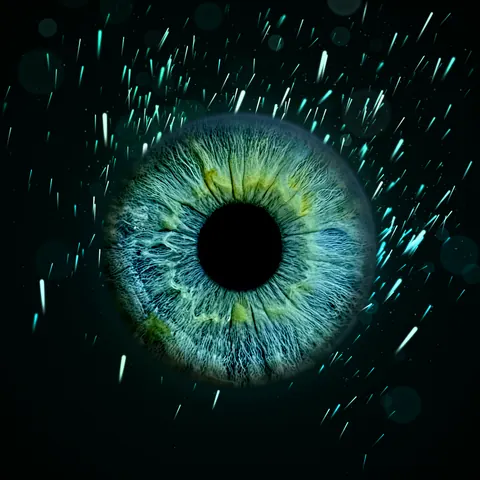
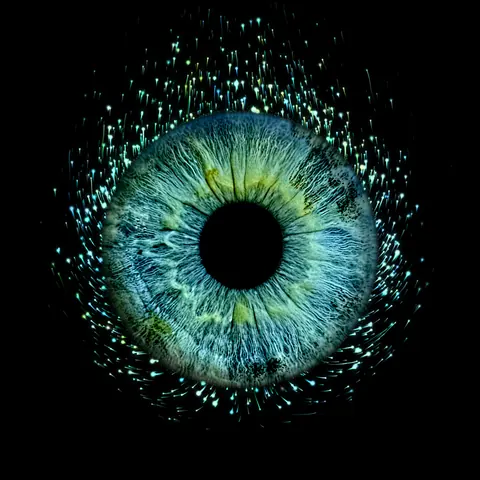
assets: Halo, Sparks and Aurora tiles, gallery art and globe in their ENGINE_V 13 looks
- /try style pictures: public/assets/atelier/style-{halo,sparks,aurora}-{480,800}.webp
  drawn again with scripts/make_style_tiles.py (the owner's own eye, own215120).
- Landing gallery art: art/{halo,sparks,aurora}_{own,yg,gr,br}_{480,900} drawn
  with make_style_tiles.make_one (the 1024 px preview, no watermark), copied by
  scripts/build_landing_assets.py. WebP quality 42 / 50 (was 70 / 72): the new
  looks are richer in fine detail, and at 70 / 72 the folder came to 10.83 MB,
  over the 10.5 MB budget of check_landing_assets.mjs; now 10.41 MB, visually
  the same at page size.
- Eyes: the calibration restorations of the earlier tiles are no longer on
  this machine. own = the private fixture restoration of own215120, yg = a
  restoration of drv_w04, gr = the 4K restoration of drv_d01 (the same photos
  as before). br: no restoration of drv_w06 is left, so its art is drawn from
  the Clean Iris tile of w06 (art/clean_br_900) cropped to its iris. Written
  in scripts/landing_assets_provenance.json.
- Hero globe: the halo_own, sparks_own and aurora_own discs cut again from the
  new style pictures (scripts/make_globe_assets.py; the other 29 discs come out
  byte for byte the same) and the poster captured again
  (scripts/make_globe_poster.mjs; its 1442 px capture cut by one transparent row
  at the top and the bottom to 1440 px, as for Powder Burst).

Verified on this tree: build, tsc -b, run_ts_tests 1032, every check:* green
[…]

diff --git a/src/landing/assets.ts b/src/landing/assets.ts
@@ -16,14 +16,14 @@ export const ASSET_BASE = '/assets/landing/';
 
 /** name (folder and file name without the extension) -> [content hash, width, height, bytes] */
 const FILES = {
-  'art/aurora_br_480': ['024882d2bb', 480, 480, 14798],
-  'art/aurora_br_900': ['875119e6ab', 900, 900, 42996],
-  'art/aurora_gr_480': ['3f2ac4ce36', 480, 480, 14086],
-  'art/aurora_gr_900': ['0a3b5a5c5a', 900, 900, 35268],
-  'art/aurora_own_480': ['803f4b4a0b', 480, 480, 14400],
-  'art/aurora_own_900': ['ede2959961', 900, 900, 37052],
-  'art/aurora_yg_480': ['174087201a', 480, 480, 15214],
-  'art/aurora_yg_900': ['ce8f97e5a7', 900, 900, 38676],
+  'art/aurora_br_480': ['88b303a8c9', 480, 480, 20970],
+  'art/aurora_br_900': ['8c63bb1585', 900, 900, 56910],
+  'art/aurora_gr_480': ['272c9acf88', 480, 480, 16706],
+  'art/aurora_gr_900': ['ad03f85a78', 900, 900, 45094],
+  'art/aurora_own_480': ['b412177b18', 480, 480, 17098],
+  'art/aurora_own_900': ['06e0d44033', 900, 900, 40016],
+  'art/aurora_yg_480': ['bf3a7bbe5e', 480, 480, 16008],
+  'art/aurora_yg_900': ['c7fe43db2e', 900, 900, 36898],
   'art/clean_br_480': ['54a1718607', 480, 480, 19758],
   'art/clean_br_900': ['4368c17ec4', 900, 900, 56176],
   'art/clean_gr_480': ['a0b773e912', 480, 480, 17590],
@@ -76,14 +76,14 @@ const FILES = {
   'art/fam_trio_900': ['c51300034b', 900, 900, 89386],
   'art/fibre_crop_1200': ['43b3f724ac', 1200, 1200, 55698],
   'art/fibre_full_480': ['97cd852736', 480, 480, 19024],
-  'art/halo_br_480': ['4050db2848', 480, 480, 19280],
-  'art/halo_br_900': ['1b3143c5ce', 900, 900, 53842],
-  'art/halo_gr_480': ['ed5cc27e17', 480, 480, 17230],
-  'art/halo_gr_900': ['02f104817a', 900, 900, 41130],
-  'art/halo_own_480': ['5588d71f4f', 480, 480, 17854],
-  'art/halo_own_900': ['c70c2f07a2', 900, 900, 44366],
-  'art/halo_yg_480': ['574c286fa3', 480, 480, 18854],
-  'art/halo_yg_900': ['4ab0b66173', 900, 900, 46290],
+  'art/halo_br_480': ['4628c67ef1', 480, 480, 19378],
+  'art/halo_br_900': ['3e79b68a75', 900, 900, 52768],
+  'art/halo_gr_480': ['692162293d', 480, 480, 16648],
+  'art/halo_gr_900': ['5aa23827d6', 900, 900, 44922],
+  'art/halo_own_480': ['72d46d502f', 480, 480, 16106],
+  'art/halo_own_900': ['8adc7b948a', 900, 900, 37706],
+  'art/halo_yg_480': ['6948231969', 480, 480, 15858],
+  'art/halo_yg_900': ['b8530a96c2', 900, 900, 37084],
   'art/nebula_br_480': ['ca6f9a6434', 480, 480, 16262],
   'art/nebula_br_900': ['8ea369663d', 900, 900, 45636],
   'art/nebula_gr_480': ['e12126e8c3', 480, 480, 16178],
@@ -108,14 +108,14 @@ const FILES = {
   'art/radiance_own_900': ['afb4288f74', 900, 900, 51012],
   'art/radiance_yg_480': ['6e92f7d95a', 480, 480, 22652],
   'art/radiance_yg_900': ['f888e33b6e', 900, 900, 54964],
-  'art/sparks_br_480': ['c3afd07bfb', 480, 480, 26386],
-  'art/sparks_br_900': ['d646e0d1be', 900, 900, 67996],
-  'art/sparks_gr_480': ['caed11562b', 480, 480, 25114],
-  'art/sparks_gr_900': ['c2729e2d24', 900, 900, 56864],
-  'art/sparks_own_480': ['807170bcaa', 480, 480, 25720],
-  'art/sparks_own_900': ['267ffcae8d', 900, 900, 59574],
-  'art/sparks_yg_480': ['a257d406d9', 480, 480, 26526],
-  'art/sparks_yg_900': ['3902536c11', 900, 900, 61540],
+  'art/sparks_br_480': ['f2b9fe56dc', 480, 480, 26162],
+  'art/sparks_br_900': ['9630aa24a8', 900, 900, 65734],
+  'art/sparks_gr_480': ['0a2bcb4b51', 480, 480, 24466],
+  'art/sparks_gr_900': ['fb3975898c', 900, 900, 60100],
+  'art/sparks_own_480': ['859d314ab8', 480, 480, 23872],
+  'art/sparks_own_900': ['5c677e12e3', 900, 900, 52506],
+  'art/sparks_yg_480': ['855d5c1761', 480, 480, 24226],
+  'art/sparks_yg_900': ['04d613882d', 900, 900, 52668],
   'art/splash_br_480': ['77c47d83c0', 480, 480, 24884],
   'art/splash_br_900': ['b036f8a9f6', 900, 900, 69982],
   'art/splash_gr_480': ['ae704210a6', 480, 480, 21486],
@@ -144,9 +144,9 @@ const FILES = {
   'art/wallthumb_family4_96': ['65aa0dee2d', 96, 96, 1160],
   'art/wallthumb_radiance_96': ['2f397a5cf7', 96, 96, 1638],
   'art/wallthumb_universe_96': ['cc82f33ca2', 96, 96, 2744],
-  'globe/poster_1200': ['44c06f7b7a', 1200, 1271, 30944],
-  'globe/poster_600': ['a11f6fbda0', 600, 635, 14078],
-  'globe/poster_900': ['4a9ee89441', 900, 953, 21750],
+  'globe/poster_1200': ['b6200dd533', 1200, 1271, 32340],
+  'globe/poster_600': ['8a8605542a', 600, 635, 14674],
+  'globe/poster_900': ['7e99f340c6', 900, 953, 22648],
   'm/cafe_acrylic_3x2__collision__tight_1200': ['75569e42ad', 1200, 800, 75932],
   'm/cafe_acrylic_3x2__collision__tight_600': ['6134659e89', 600, 400, 23636],
   'm/desk_block__family4__tight_1200': ['e2bc1454e2', 1200, 1499, 74876],

diff --git a/src/landing/globe/assets.globe.ts b/src/landing/globe/assets.globe.ts
@@ -5,9 +5,9 @@
 
 /** <id>_<width> -> [content hash, bytes] */
 const GLOBE_FILES: Readonly<Record<string, readonly [string, number]>> = {
-  'aurora_own_160': ['c12e92f1f3', 2188],
-  'aurora_own_240': ['75f9b86968', 4412],
-  'aurora_own_480': ['8d65870d7a', 17556],
+  'aurora_own_160': ['6c959abff9', 2946],
+  'aurora_own_240': ['214f202683', 6262],
+  'aurora_own_480': ['3c22d37dc5', 26740],
   'clean_own_160': ['4cb011ade4', 2250],
   'clean_own_240': ['7550b1324c', 4948],
   'clean_own_480': ['88ab48d346', 21646],
@@ -44,9 +44,9 @@ const GLOBE_FILES: Readonly<Record<string, readonly [string, number]>> = {
   'fam_trio_160': ['d98adc9c74', 3026],
   'fam_trio_240': ['9ab4f5088a', 7336],
   'fam_trio_480': ['0d5e705fa1', 35404],
-  'halo_own_160': ['2bc15323b3', 2732],
-  'halo_own_240': ['f4a7d300ec', 5536],
-  'halo_own_480': ['905f4a22a6', 22460],
+  'halo_own_160': ['3e2b193343', 2508],
+  'halo_own_240': ['1a537292b1', 5536],
+  'halo_own_480': ['b762fb6fca', 24840],
   'nebula_duo_160': ['565a8caad5', 2520],
   'nebula_duo_240': ['162ee2713e', 4944],
   'nebula_duo_480': ['e3fbcd5b11', 19508],
@@ -74,9 +74,9 @@ const GLOBE_FILES: Readonly<Record<string, readonly [string, number]>> = {
   'radiance_yg_160': ['a64b1bbaff', 3038],
   'radiance_yg_240': ['71e02740ea', 6514],
   'radiance_yg_480': ['4c650942fb', 27322],
-  'sparks_own_160': ['cdb0187518', 3668],
-  'sparks_own_240': ['044b35dfd9', 7544],
-  'sparks_own_480': ['8dec7831fc', 28958],
+  'sparks_own_160': ['9ae865927e', 4078],
+  'sparks_own_240': ['d5d2d123a3', 8912],
+  'sparks_own_480': ['966d13d6ef', 35350],
   'splash_br_160': ['db62a45221', 2926],
   'splash_br_240': ['7903c59271', 6516],
   'splash_br_480': ['48d6ce8e0a', 29890],
